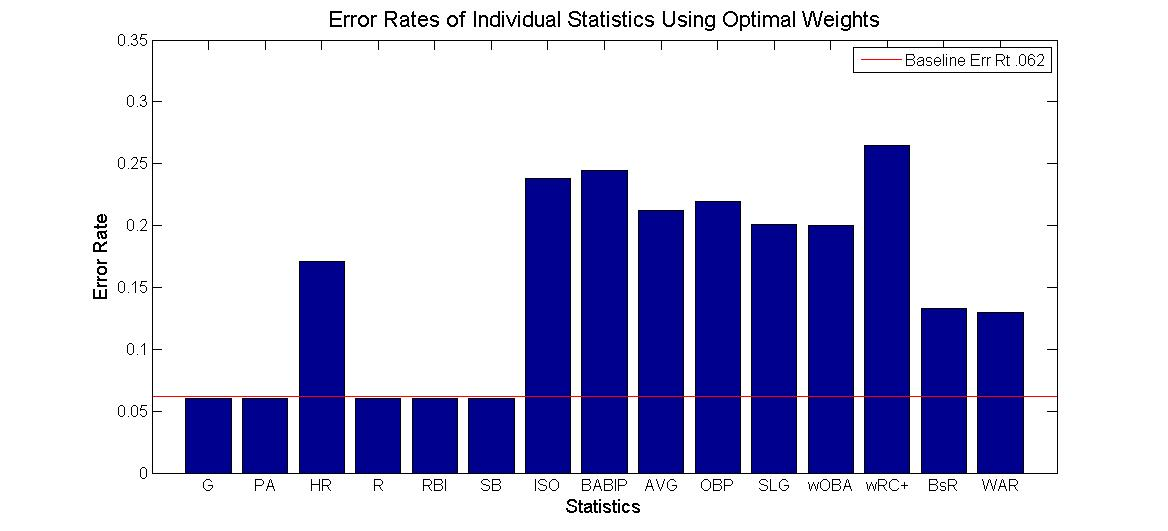
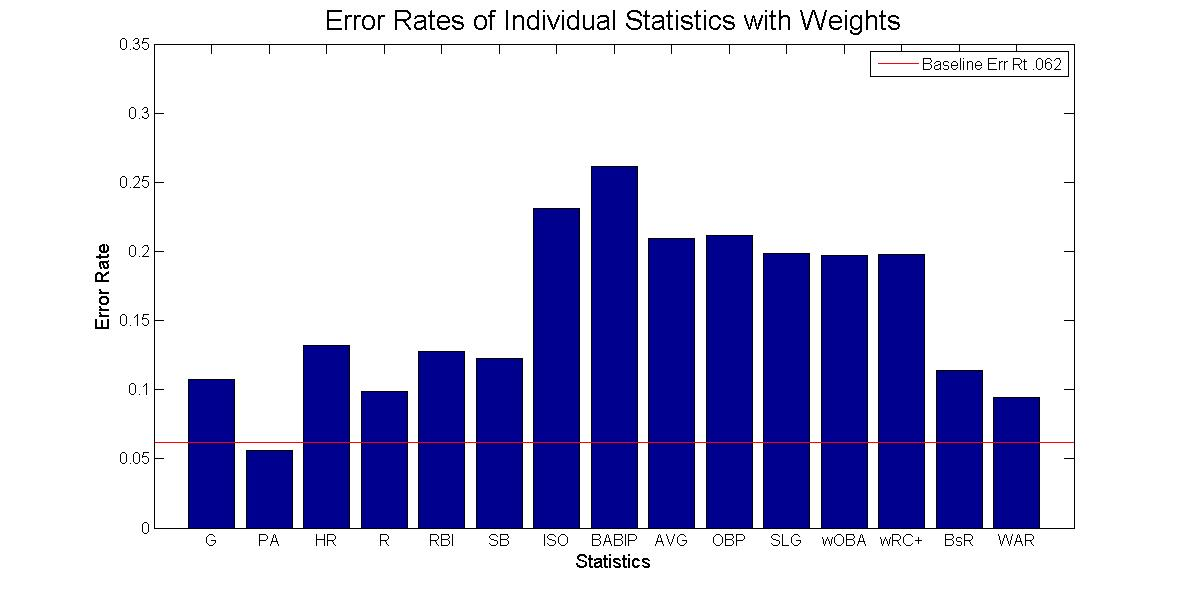
new pic

diff --git a/code/runAllStats.m b/code/runAllStats.m
@@ -1,4 +1,4 @@
-function errors = runAllStats(data, numFolds, wInit, interval, threshold)
+function errors = runAllStats(data, numFolds)
 %This calls MLBHallOfFamePrediction with each individual stat,
 %outputting a matrix containing the error rates for each stat.
 %Calculates error rate by running it 4 times on each stat,
@@ -12,11 +12,9 @@ errors = zeros(17,1);
 coefficients = zeros(17,1);
 
 for i = 2:16
-    
-    coefficients(i,1) = findOptW2(data, 1, (i), wInit, interval, threshold);  
-    
+   
     for j = 1:run_this_many_times;
-        currentErrors(i,:) = currentErrors(i,:) + MLBHallOfFamePrediction(data, numFolds, (i), coefficients(i,1));
+        currentErrors(i,:) = currentErrors(i,:) + MLBHallOfFamePrediction(data, numFolds, (i));
     end
     
     errors(i,1) = sum(currentErrors(i,:));   
